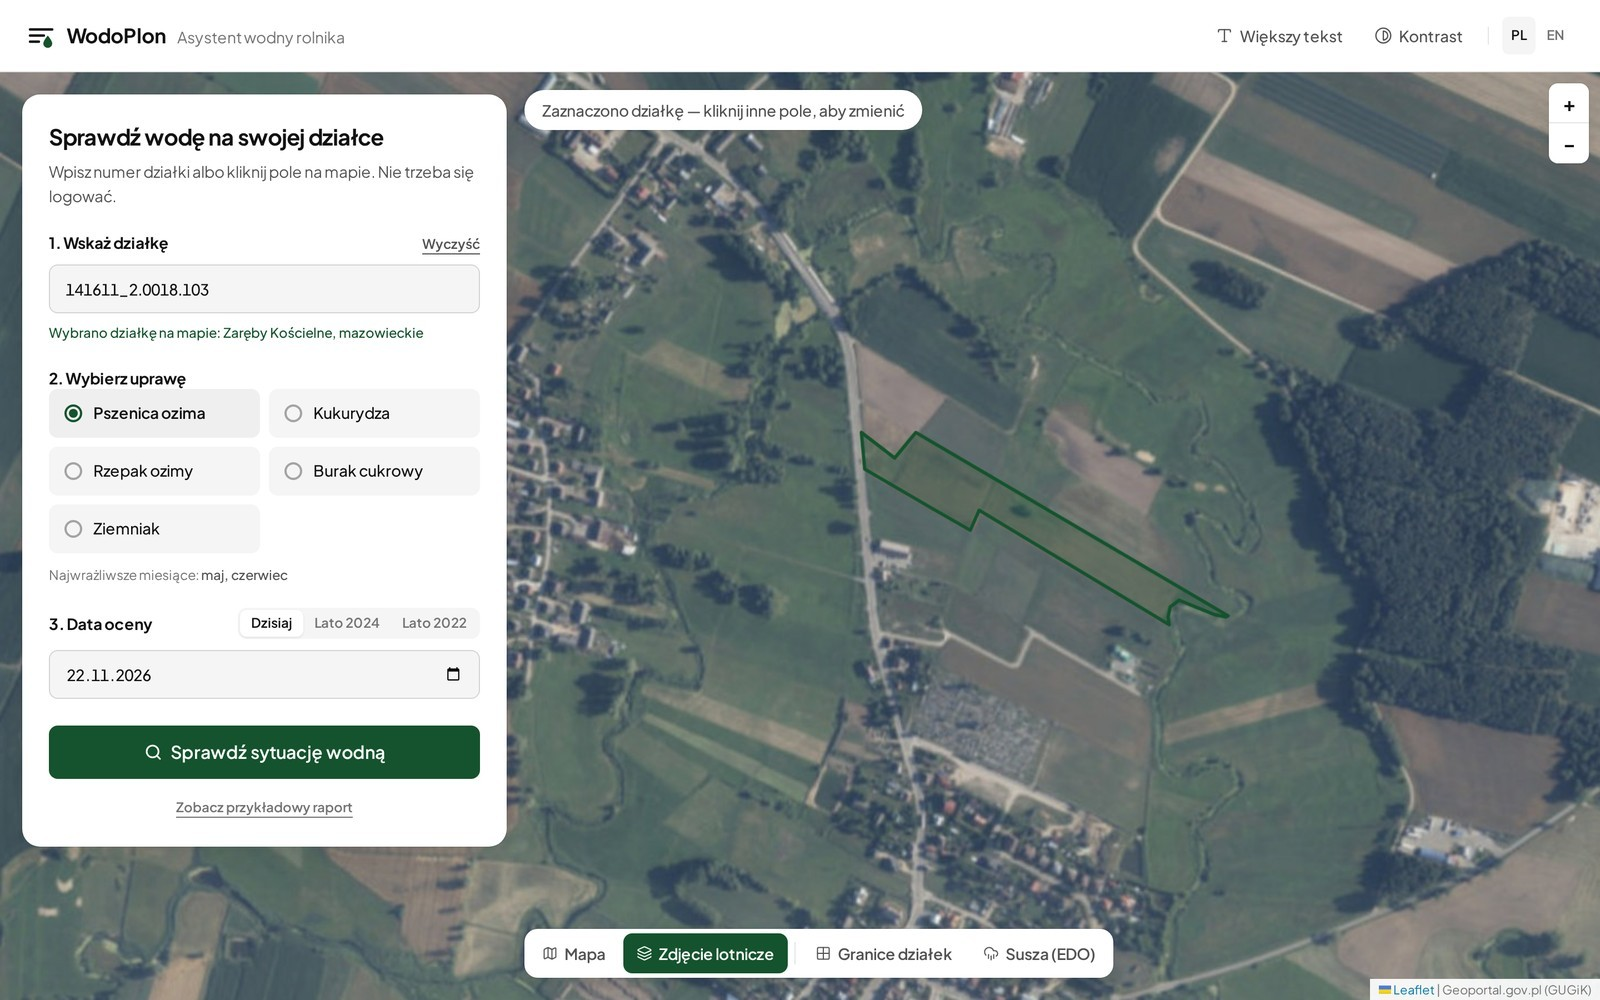
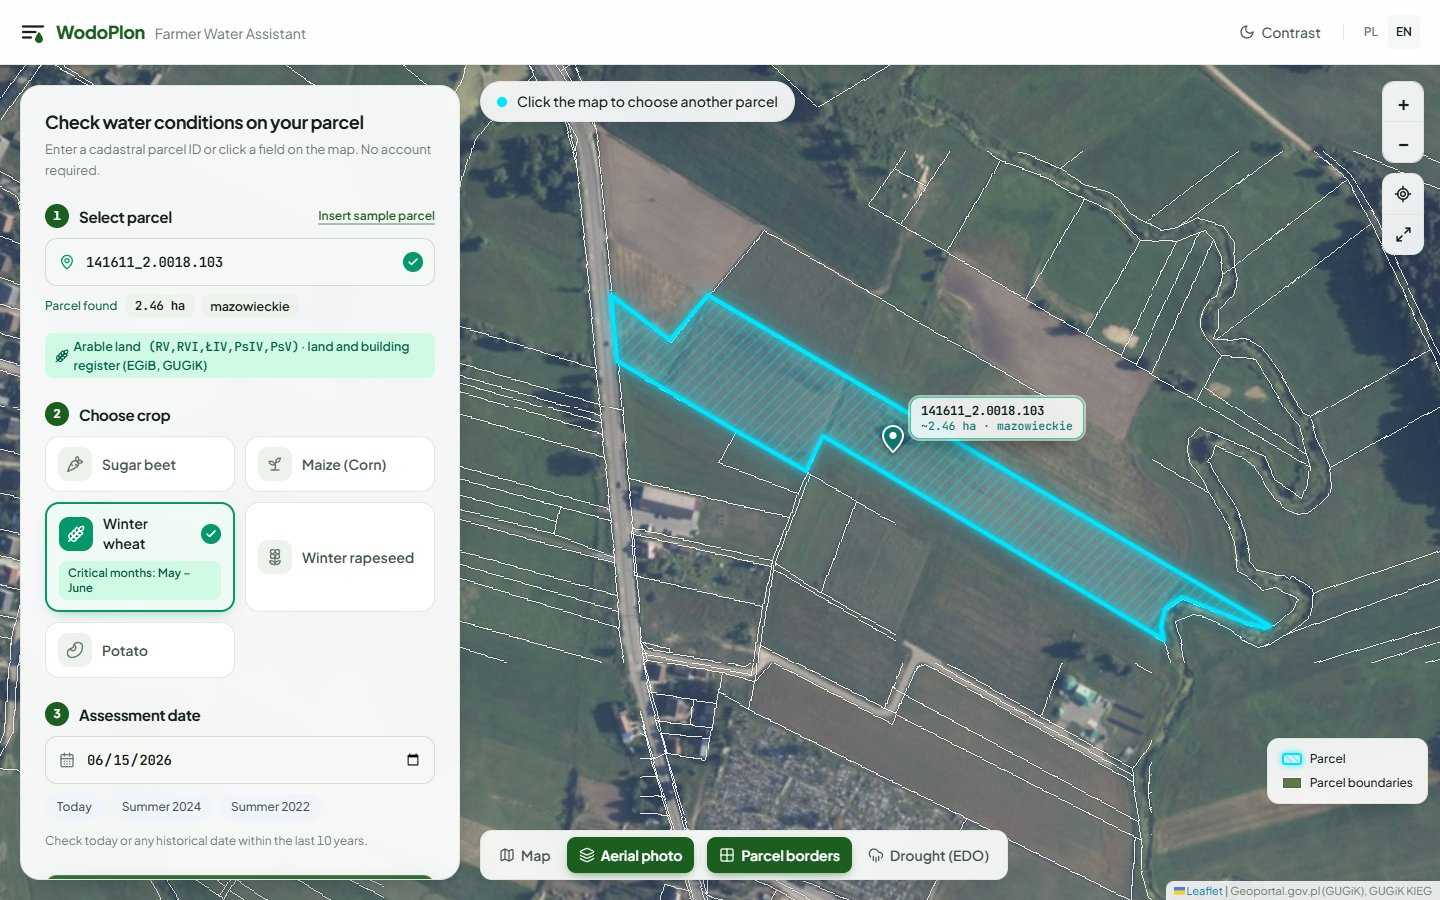
docs: retake README screenshots in English with the working drought layer
All four screenshots are taken from the current app at 1440x900 with the
English interface. The drought layer one now shows the warnings clipped
to Poland.

diff --git a/README.md b/README.md
@@ -22,13 +22,15 @@ the crops).
 A short promo video is on [YouTube](https://youtu.be/_8m3ALKiHTU) and the slides from the hackathon pitch are in
 [docs/presentation-pl.pdf](docs/presentation-pl.pdf). Both are in Polish.
 
+The screenshots below show the English interface (the app opens in Polish, with a PL/EN switch in the header).
+
 | Selecting a parcel on the orthophoto | Copernicus EDO drought layer |
 |---|---|
-| ![Parcel form and orthophoto map with the selected parcel outlined](docs/assets/screenshots/parcel-selection.jpg) | ![Drought layer and legend over the orthophoto map](docs/assets/screenshots/drought-layer.jpg) |
+| ![Parcel form with a parcel found by its ID, outlined on the orthophoto with cadastral boundaries](docs/assets/screenshots/parcel-selection.jpg) | ![Drought warning areas over Poland on the street map, with the drought legend](docs/assets/screenshots/drought-layer.jpg) |
 
 | Report: water situation | Report: irrigation and data sources |
 |---|---|
-| ![Report header with risk level, water balance, rainfall and drought history](docs/assets/screenshots/report-assessment.jpg) | ![Irrigation recommendation with dose and the list of data sources and limitations](docs/assets/screenshots/report-irrigation-sources.jpg) |
+| ![Report header with the risk level, water balance against the 10-year median and rainfall](docs/assets/screenshots/report-assessment.jpg) | ![Retention measures, the irrigation step and the start of the sources and limitations section](docs/assets/screenshots/report-irrigation-sources.jpg) |
 
 ## Contents
 
